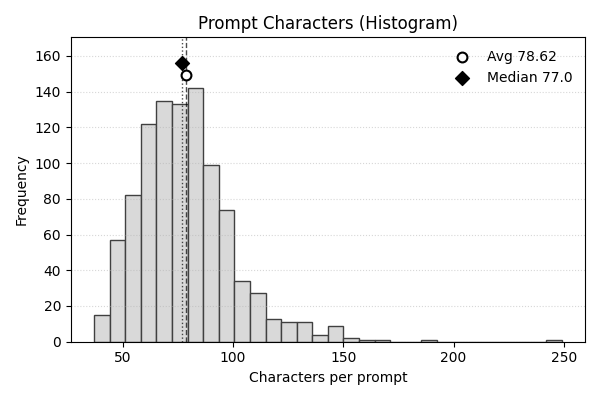
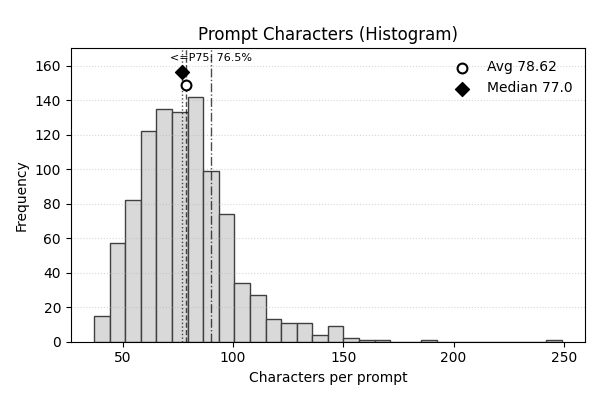
add P75 quantile (exclusive)

diff --git a/analyse_mbpp.py b/analyse_mbpp.py
@@ -137,7 +137,7 @@ def plot_stat_bars(title: str, stats: dict, out_path: Path):
     plt.close(fig)
 
 
-def plot_hist(title: str, values: list[int], out_path: Path, xlabel: str):
+def plot_hist(title: str, values: list[int], out_path: Path, xlabel: str, show_percentiles: bool = False):
     if plt is None or not values:
         return
     fig, ax = plt.subplots(figsize=(6, 4))
@@ -148,8 +148,9 @@ def plot_hist(title: str, values: list[int], out_path: Path, xlabel: str):
     # Compute statistics
     avg = sum(values) / len(values)
     med = statistics.median(values)
+    p75 = statistics.quantiles(values, n=4, method="inclusive")[2] if len(values) > 0 else 0
 
-    # Ensure headroom for markers
+    # Ensure headroom for markers and top annotations
     y_max = float(max(n)) if len(n) else 1.0
     ax.set_ylim(0, y_max * 1.2)
 
@@ -163,12 +164,26 @@ def plot_hist(title: str, values: list[int], out_path: Path, xlabel: str):
                marker="D", facecolors="black", edgecolors="black",
                label=f"Median {med}")
 
+    # Optional percentile markers and percentage annotations
+    if show_percentiles:
+        for x in [p75]:
+            ax.axvline(x, color="black", linestyle="-.", linewidth=1, alpha=0.7)
+        # Percent of values less-or-equal than each percentile value (read left-to-right)
+        def pct_le(th: float) -> float:
+            if not values:
+                return 0.0
+            return round(100.0 * sum(1 for v in values if v <= th) / len(values), 1)
+        # Place small text labels slightly above histogram
+        ax.text(p75, y_max * 1.14, f"<=P75: {pct_le(p75)}%", ha="center", va="bottom", fontsize=8)
+
     ax.set_title(title)
     ax.set_ylabel("Frequency")
     ax.set_xlabel(xlabel)
     ax.grid(axis="y", linestyle=":", alpha=0.5)
     ax.legend(frameon=False, loc="upper right")
+    # Add extra top buffer
     fig.tight_layout()
+    fig.subplots_adjust(top=0.88)
     fig.savefig(out_path)
     plt.close(fig)
 
@@ -243,8 +258,8 @@ def main():
         plot_stat_bars("Prompt Sentences (Stats)", sani_stats["sents"], plots_dir / "sanitized_prompt_sentences_stats.png")
 
         # Histograms of distributions (titles omit dataset label)
-        plot_hist("Code Lines (Histogram)", code_line_counts, plots_dir / "sanitized_code_lines_hist.png", xlabel="Lines per file")
-        plot_hist("Prompt Characters (Histogram)", char_counts, plots_dir / "sanitized_prompt_characters_hist.png", xlabel="Characters per prompt")
+        plot_hist("Code Lines (Histogram)", code_line_counts, plots_dir / "sanitized_code_lines_hist.png", xlabel="Lines per file", show_percentiles=True)
+        plot_hist("Prompt Characters (Histogram)", char_counts, plots_dir / "sanitized_prompt_characters_hist.png", xlabel="Characters per prompt", show_percentiles=True)
         plot_hist("Prompt Words (Histogram)", word_counts, plots_dir / "sanitized_prompt_words_hist.png", xlabel="Words per prompt")
         plot_hist("Prompt Sentences (Histogram)", sent_counts, plots_dir / "sanitized_prompt_sentences_hist.png", xlabel="Sentences per prompt")
 
@@ -281,8 +296,8 @@ def main():
         plot_stat_bars("Prompt Sentences (Stats)", orig_stats["sents"], plots_dir / "original_prompt_sentences_stats.png")
 
         # Histograms of distributions (titles omit dataset label)
-        plot_hist("Code Lines (Histogram)", code_line_counts_o, plots_dir / "original_code_lines_hist.png", xlabel="Lines per file")
-        plot_hist("Prompt Characters (Histogram)", char_counts_o, plots_dir / "original_prompt_characters_hist.png", xlabel="Characters per prompt")
+        plot_hist("Code Lines (Histogram)", code_line_counts_o, plots_dir / "original_code_lines_hist.png", xlabel="Lines per file", show_percentiles=True)
+        plot_hist("Prompt Characters (Histogram)", char_counts_o, plots_dir / "original_prompt_characters_hist.png", xlabel="Characters per prompt", show_percentiles=True)
         plot_hist("Prompt Words (Histogram)", word_counts_o, plots_dir / "original_prompt_words_hist.png", xlabel="Words per prompt")
         plot_hist("Prompt Sentences (Histogram)", sent_counts_o, plots_dir / "original_prompt_sentences_hist.png", xlabel="Sentences per prompt")
 
